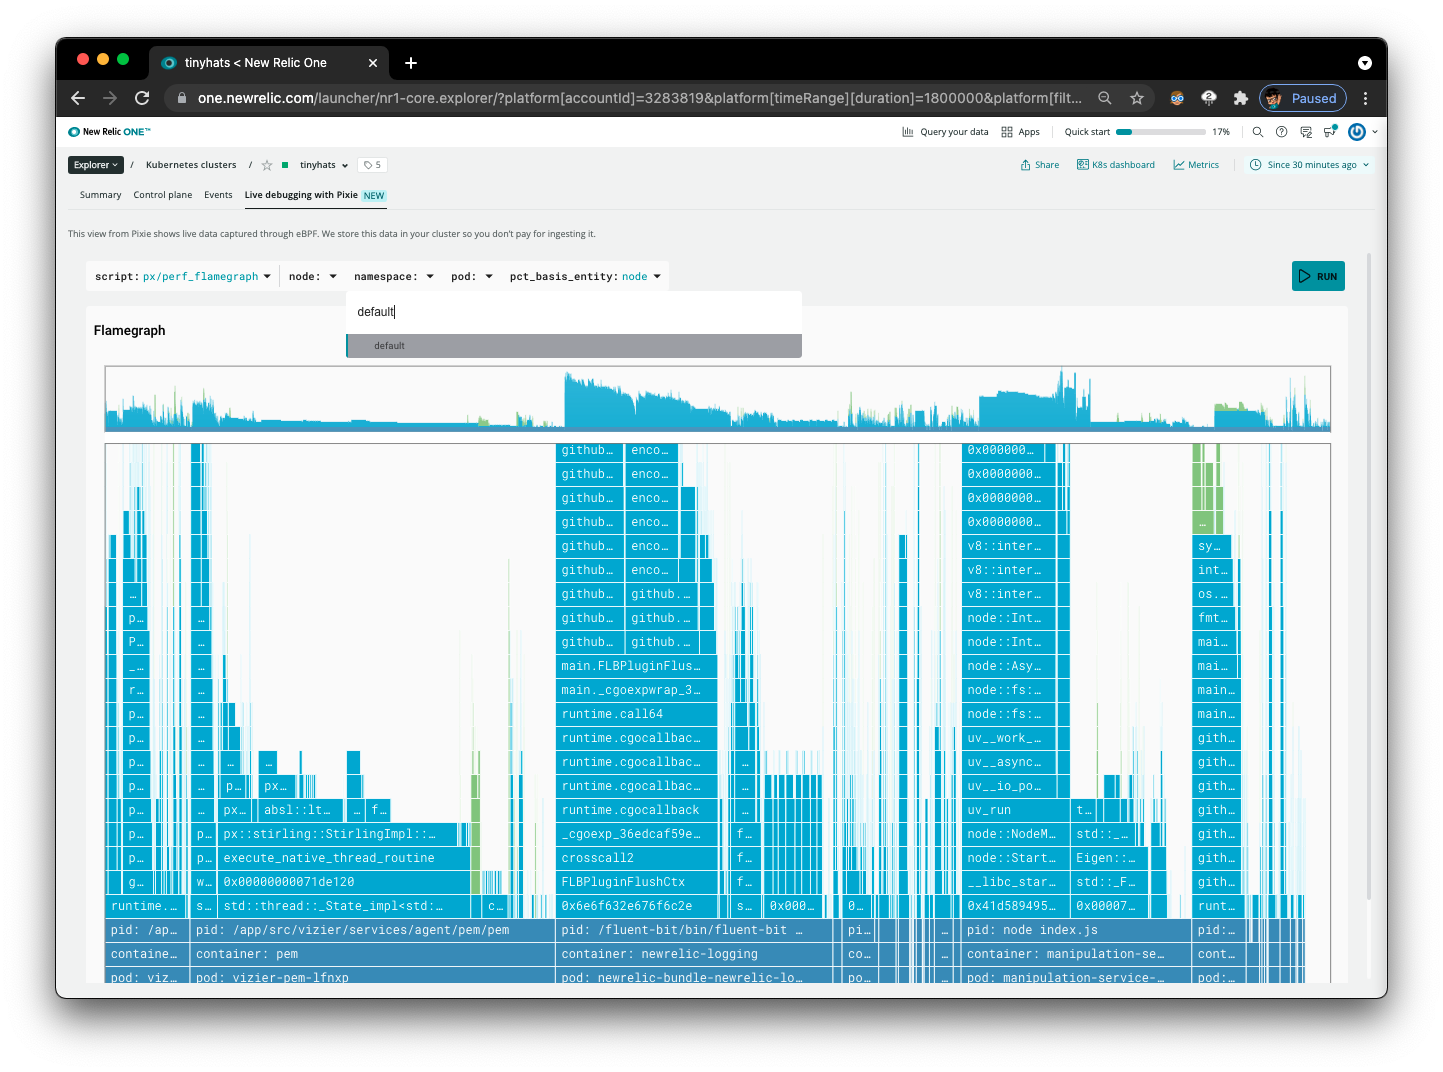
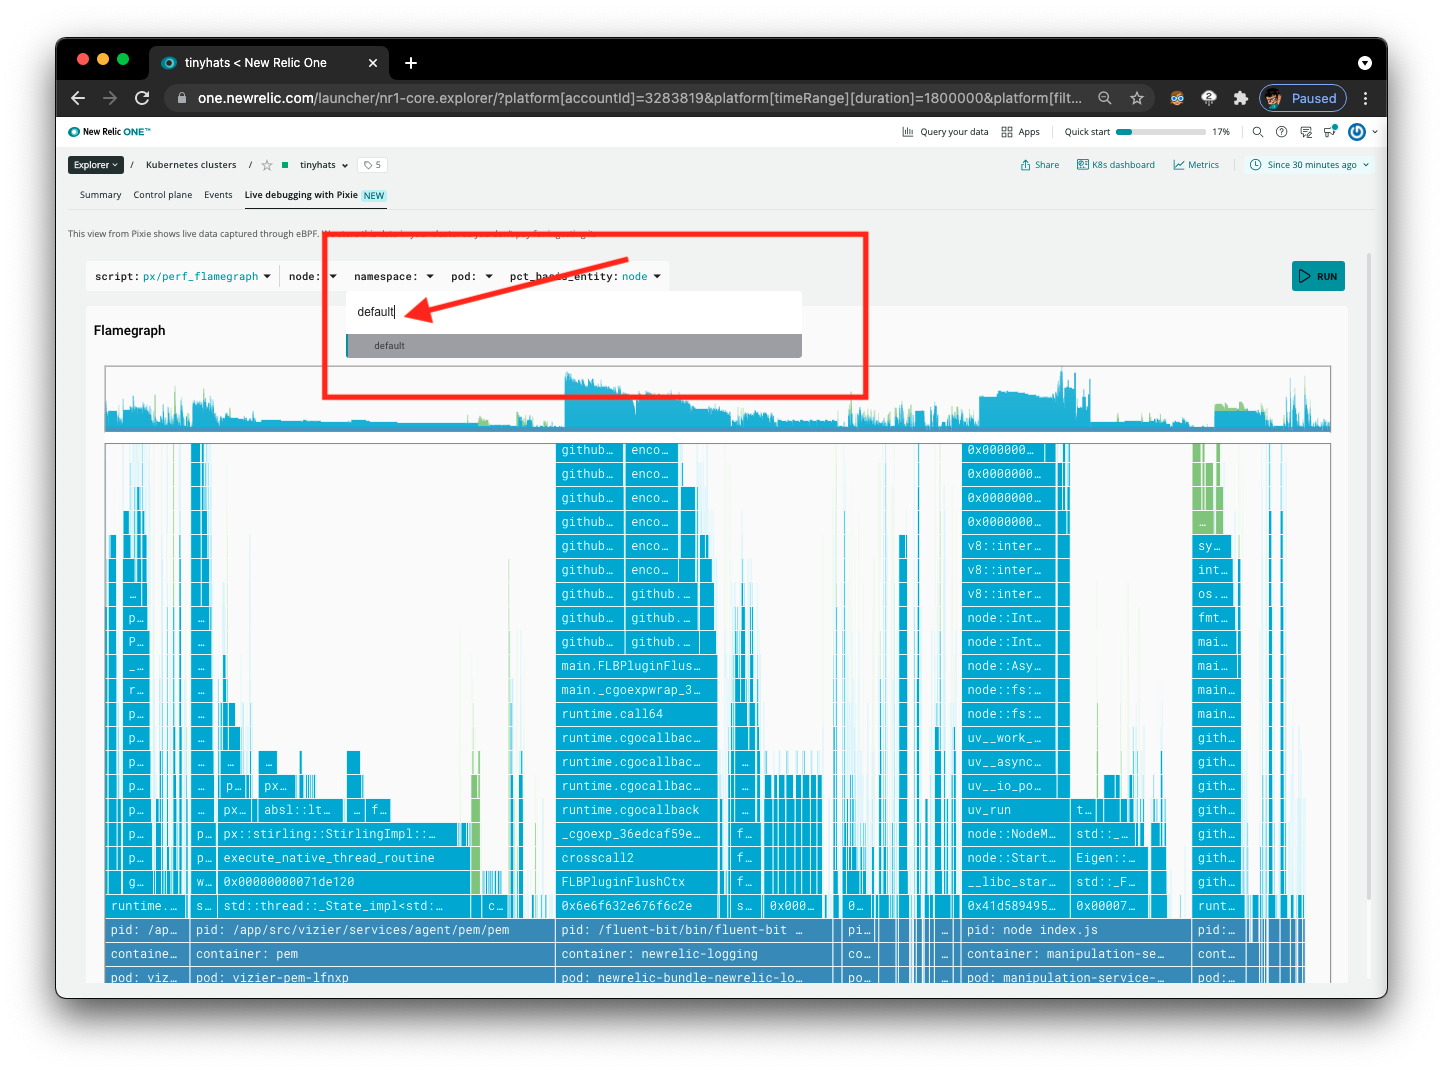
finish flamegraphs

Changed region(s): [[0.2183, 0.2155, 0.6237, 0.4002], [0.2807, 0.2771, 0.343, 0.3078]]

diff --git a/content/pixie/using_pixie/scenario_3.md b/content/pixie/using_pixie/scenario_3.md
@@ -41,12 +41,16 @@ This time, we'll be using the `px/service` script, so select it from the dropdow
 ![image](/images/pixie/3-service-1.png)
 Although the above page, `px/service` gives us a visualization of the HTTP Latency we observed with `px/cluster`, it still doesn't provide us with enough information to determine what is actually *causing* the high latency.
 
-There is more information, however, below this section. Scroll down to **Sample Of Slow Requests**. This will provide us with exactly what we need: "slow requests."
-
+There is more information, however, below this section. Scroll down to **Sample Of Slow Requests**. This will provide us with exactly what we need: "slow requests." Using this feature from Pixie, we'll be able to identify *where* the long page load is triggered from.
 
 ![image](/images/pixie/3-service-2.png)
 
+Looking at the **REQ_PATH**, we can now identify that the slow request is to the `/api/admin` endpoint. We can then conclude that the `admin-service` is the source of the long loading times.
+
+> **What's hapenning?** When `frontend-service` makes a request for admin actions on TinyHat.Me, it is taking a long time for `admin-service` to respond.
 ### Using `px/flamegraph` to find the potential fix
+
+#### Flamegraphs in Pixie
 We are going to use Pixie's Always-On Profiling feature to investigate this slowdown, using a flamegraph to identify a performance issue within the application code.
 
 Every ~10ms, the Pixie profiler samples the current stack trace on each CPU. The stack trace includes the function that was executing at the time of the sample, along with the ancestor functions that were called to get to this point in the code.
@@ -59,10 +63,23 @@ The background color of each box in the flamegraph adds an extra dimension of da
 - Light blue bars represent user space application code.
 - Green bars represent kernel code.
 
+#### Running `px/perf_flamegraph`
+Using the dropdown, search for and select the `px/perf_flamegraph` script. However, this flamegraph has too much information, **we want to narrow this down to the namespace that we care about: `/default`.** This contains all of the services specifically pertaining to the deployment of TinyHat.Me, and excludes other services that monitor the Kubernetes cluster's health.
+
+Click on the `namespace` parameter and type in `default` to filter the flamegraph by the namespace we want to focus on.
 ![image](/images/pixie/3-flamegraph-1.png)
 
-However, this flamegraph has too much information, we want to narrow this down to the namespace that we care about - `/default`. 
+Now that the interface is cleaner, notice the two containers that are running in the flamegraph, `manipulation-service` and `admin-service`.
+
+Focus on `admin-service`, the service we are analyzing in this situation. Notice that a specific function `main.createSampleImages` is being called even more than `main.setupSQLQuery` is. 
 
 ![image](/images/pixie/3-flamegraph-2.png)
 
-Much better. it looks like based on the calls for `/manipulate` and `admin`, we individually generate the sample image every time the `/admin` route is being called. Instead of making so many HTTP requests everytime the admin dashboard is being accessed, we should save the mockup when the user uploads the image to improve page load speeds!
+#### Using Flamegraphs to Draw Conclusions
+Here's what we can identify now:
+1. The function `main.createSampleImages` is being called repeatedly.
+2. The function `main.createSampleImages` is calling the `manipulation-service` each time as well. *This can be inferred by the large width of the columns for this service on the flamegraph.*
+
+![image](/images/pixie/3-flamegraph-3.png)
+#### Identifying the Problem and Creating a Solution
+Based on the calls for `/manipulate` and `/admin`, we individually generate the sample image every time the `/admin` route is being called. Instead of making so many HTTP requests every time the admin dashboard is being accessed, we should save the mockup when the user uploads the image to improve page load speeds.
